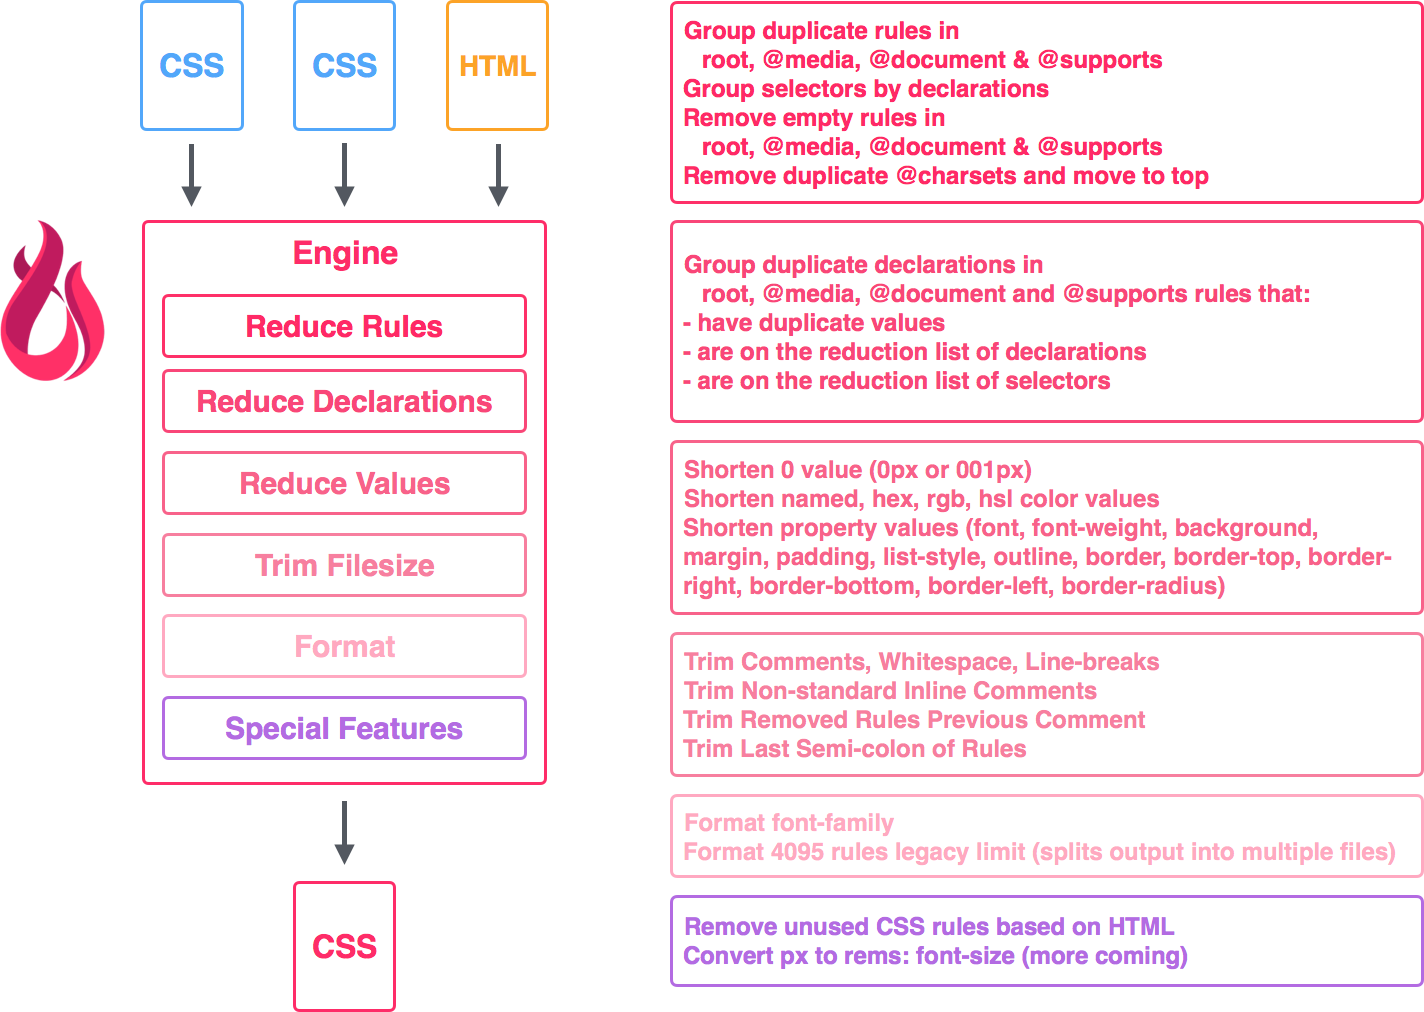
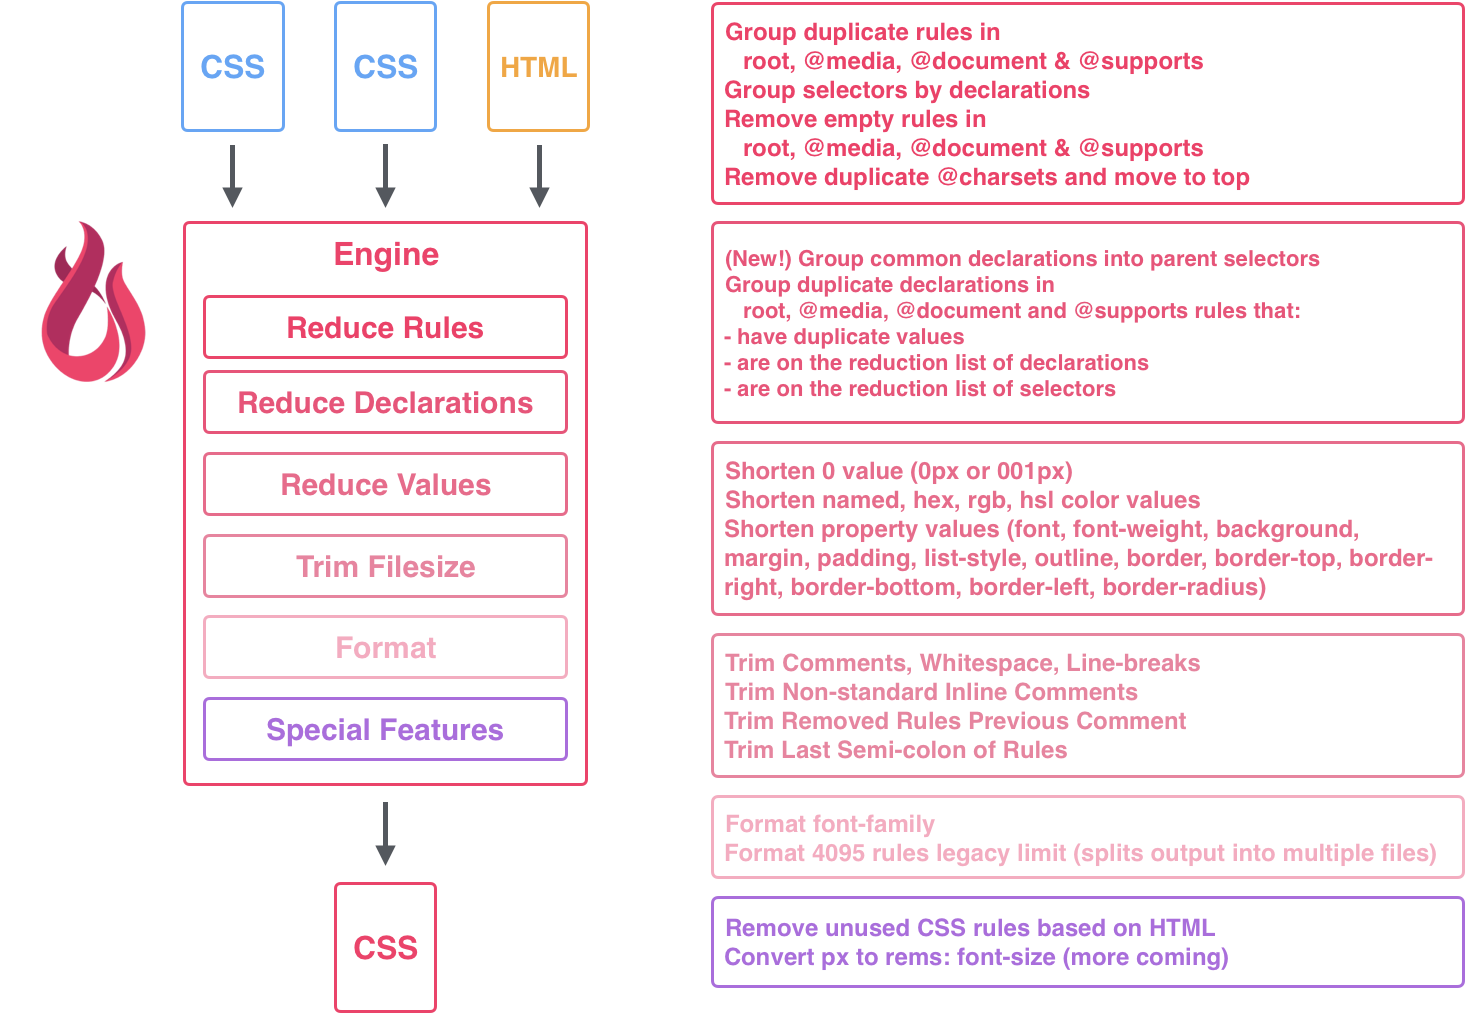
NEW Feature
- Groups common declarations which share the same parent into a parent selector

diff --git a/lib/css-purge.js b/lib/css-purge.js
@@ -42,6 +42,8 @@ function CSSPurge() {
 
 			"css": ["demo/test1.css"],
 			
+			"new_reduce_common_into_parent": true,
+
 			"trim": true,
 	    "trim_keep_non_standard_inline_comments": false,
 	    "trim_removed_rules_previous_comment": false,
@@ -105,6 +107,8 @@ function CSSPurge() {
 		css: CONFIG.options.css,
 		html: CONFIG.options.html,
 		js: CONFIG.options.js,
+
+		new_reduce_common_into_parent: CONFIG.options.new_reduce_common_into_parent,
 
 		trim: CONFIG.options.trim,
 		trim_keep_non_standard_inline_comments: CONFIG.options.trim_keep_non_standard_inline_comments,
@@ -177,6 +181,7 @@ function CSSPurge() {
 			"input_js": []
 		},
 		"options_used" : {
+			"new_reduce_common_into_parent" : OPTIONS.new_reduce_common_into_parent,
 			"trim" : OPTIONS.trim,
 			"trim_comments" : OPTIONS.trim_comments,
 			"trim_keep_non_standard_inline_comments" : OPTIONS.trim_keep_non_standard_inline_comments,
@@ -4864,6 +4869,265 @@ function CSSPurge() {
 		if (rules !== undefined) {
 
 			rCount = rules.length;
+
+			//reduce common declarations amongst children into parent
+			if (OPTIONS.new_reduce_common_into_parent) {
+
+
+				var directParents = [];
+				var hierachy = [];
+				var hierachyKeys = [];
+				var hierachyLen = 0;
+				var selectedHierachyLevel = 0;
+				var commonParentsIdx = -1;
+				var commonParentsKeys = [];
+				var commonParents = [];
+				var commonParentsLen = 0;
+				var commonParent = '';
+				var commonParent2 = '';
+				var commonParentTotal = 0;
+				var commonParentDeclarations = [];
+				var commonLineage = '';
+				var newParentDeclarations = [];
+				var processedCommonParentsChildren = [];
+				var classLineage = '';
+				var parentClassLineage = '';
+				var lineageLabel = '';
+				var tmpDeclarations = [];
+
+				for (i = 0; i < rCount; ++i) {
+
+					///rules
+					//group classes - create hierarchy
+					if (rules[i].selectors !== undefined) {
+						for (j = 0; j < rules[i].selectors.length; j++) { //each comma delimited
+							
+							if (rules[i].selectors[j].indexOf('.') != -1) {
+
+								classLineage = rules[i].selectors[j].split(' ');
+								parentClassLineage = classLineage.slice(0); //clone
+								parentClassLineage.pop();
+								parentClassLineage = parentClassLineage.join(' ');
+
+								if (parentClassLineage !== undefined && parentClassLineage != '') {
+
+									if (directParents[parentClassLineage] !== undefined) {
+										directParents[parentClassLineage].push({
+											selector: rules[i].selectors[j],
+											index: i
+										});
+									} else {
+										directParents[parentClassLineage] = [{
+											selector: rules[i].selectors[j],
+											index: i
+										}];	
+									}
+									
+								}
+
+
+								for (k = 0; k < classLineage.length; k++) { //depth of hierachy
+
+									if (k > 0) {
+										lineageLabel = '';
+
+										for (l = k; l > 0; l--) {
+											lineageLabel += classLineage[k-l] + ' ';	
+										}
+										lineageLabel += classLineage[k];	
+
+										if (hierachy[lineageLabel] === undefined) {
+											hierachy[lineageLabel] = 0;
+										}
+
+										hierachy[lineageLabel] += 1;
+
+									} else {
+
+										if (hierachy[classLineage[k]] === undefined) {
+											hierachy[classLineage[k]] = 0;
+										}
+
+										hierachy[classLineage[k]] += 1;
+									}
+								} //end of for
+							} //end of if
+						} //end of for
+					}
+				}
+
+				function sortHierachy(obj) {
+					var keys = Object.keys(obj);
+					keys.sort(function(a,b){return b.length-a.length})
+					hierachy = [];
+					for (i = 0; i < keys.length; i++) {
+
+						hierachy[keys[i]] = obj[keys[i]];
+
+
+						Object.keys(directParents).forEach(function(key, index, val) {
+						  
+						  if (this[key].length > 1) {
+							  for (j = 0; j < this[key].length; j++) {
+
+							  	if (keys[i] == this[key][j].selector) {
+
+								  	if (OPTIONS.verbose) { console.log(success('Process - Rules - Group Common Parent Rule : ' + keys[i] ));}
+								  	commonParentsKeys.push({
+								  		selector: key,
+								  		index: this[key][j].index,
+								  		childSelector: keys[i]
+								  	});
+								  }
+							  }
+							}
+
+						}, directParents);
+					}
+					return hierachy;
+				}
+				sortHierachy(hierachy);
+				hierachyKeys = Object.keys(hierachy);
+				hierachyLen = hierachyKeys.length;
+				selectedHierachyLevel = 0;
+				commonParentsLen = commonParentsKeys.length;
+
+				// get declarations
+				for (i = 0; i < commonParentsKeys.length; i++) {
+
+					if (rules[commonParentsKeys[i].index].declarations !== undefined) {
+
+						for (j = 0; j < rules[commonParentsKeys[i].index].declarations.length; j++) {
+
+							if (commonParentDeclarations[rules[commonParentsKeys[i].index].declarations[j].property + '_' + rules[commonParentsKeys[i].index].declarations[j].value] !== undefined) {
+
+								commonParentDeclarations[rules[commonParentsKeys[i].index].declarations[j].property + '_' + rules[commonParentsKeys[i].index].declarations[j].value].count += 1;
+
+							} else {
+								commonParentDeclarations[rules[commonParentsKeys[i].index].declarations[j].property + '_' + rules[commonParentsKeys[i].index].declarations[j].value] = {
+
+									property: rules[commonParentsKeys[i].index].declarations[j].property,
+									value: rules[commonParentsKeys[i].index].declarations[j].value,
+									count: 1,
+									selector: rules[commonParentsKeys[i].index].selectors,
+									selectorIndex: commonParentsKeys[i].index,
+									commonParent: commonParentsKeys[i].selector
+								};
+							}
+						}
+
+					}
+
+				}
+
+				Object.keys(commonParentDeclarations).forEach(function(val, index, key) {
+
+					if (this[val].count == directParents[this[val].commonParent].length) {
+
+						if (newParentDeclarations[this[val].commonParent] !== undefined) {
+							newParentDeclarations[this[val].commonParent].declarations.push({
+								type: 'declaration',
+								property: this[val].property,
+								value: this[val].value
+							});
+						} else {
+							newParentDeclarations[this[val].commonParent] = {
+								declarations: [{
+									type: 'declaration',
+									property: this[val].property,
+									value: this[val].value
+								}],
+								selectorIndex: this[val].selectorIndex
+							};
+						}
+
+						commonParents.push(this[val].commonParent);
+					}
+
+				}, commonParentDeclarations);
+
+
+				commonParentsLen = commonParentsKeys.length;
+
+				for (i = 0; i < commonParentsLen; i++) {
+
+					Object.keys(newParentDeclarations).forEach(function(key, index) {
+
+						if (commonParentsKeys[i] !== undefined && commonParentsKeys[i].selector == key) {
+
+						  if (rules[commonParentsKeys[i].index] !== undefined && rules[commonParentsKeys[i].index].declarations !== undefined) {
+						  	
+						  	//clone declarations
+						  	tmpDeclarations = rules[commonParentsKeys[i].index].declarations.slice(0); //clone
+						  	dCount = tmpDeclarations.length;
+							  
+						  	for (j = 0; j < this[key].declarations.length; j++) { //each parent declaration
+
+							  	//remove declarations
+							  	for (k = 0; k < dCount; k++) { //each child declaration
+
+							  		if (
+							  			this[key].declarations[j] !== undefined
+							  			&& this[key].declarations[j].type == 'declaration'
+							  			&& this[key].declarations[j].property == tmpDeclarations[k].property
+							  			&& this[key].declarations[j].value == tmpDeclarations[k].value
+							  		) {
+							  			tmpDeclarations.splice(k, 1); 
+							  			k -= 1;
+							  			dCount-=1;
+							  		}
+							  	} //end of k loop
+
+							  } //end of j loop
+							  
+							  if (tmpDeclarations.length == 0) {
+
+							  	//remove whole rule
+							  	rules.splice(commonParentsKeys[i].index, 1);
+							  	i-=1;
+							  	commonParentsLen-=1;
+
+							  } else {
+							  	//update declarations
+							  	rules[commonParentsKeys[i].index].declarations = tmpDeclarations;
+							  }
+								  	
+						  }
+						}
+					  
+					}, newParentDeclarations);
+				} //end of i loop
+
+				//Create Common Parents
+				Object.keys(newParentDeclarations).forEach(function(key, index) {
+				  
+				  rules.splice(this[key].selectorIndex-1, 0, {
+						type : 'rule',
+						selectors: [key],
+						declarations: this[key].declarations
+					});
+
+				}, newParentDeclarations);
+
+				//some cleanup
+				directParents = [];
+				hierachy = [];
+				hierachyKeys = [];
+				commonParentsKeys = [];
+				commonParents = [];
+				commonParentDeclarations = [];
+				newParentDeclarations = [];
+				processedCommonParentsChildren = [];
+				tmpDeclarations = [];
+				
+				//reset rules count
+				rCount = rules.length;
+
+			} //end of reduce common declarations amongst children into parent
+
+
+
+
 
 			for (i = 0; i < rCount; ++i) {
 

diff --git a/demo/test16.css b/demo/test16.css
@@ -1,0 +1,42 @@
+.class-1 {
+	color: purple;
+}
+
+.class-1 .class-1-1 {
+  padding-top: 10px;
+  padding-bottom: 10px;
+  padding-right: 10px;
+}
+
+.class-1 .class-1-2 {
+  padding-top: 10px;
+  padding-bottom: 10px;
+}
+
+.class-1 .class-1-2 {
+  padding-top: 10px;
+  padding-bottom: 10px;
+  padding-left: 10px;
+  padding-right: 10px;
+}
+
+.class-1 .class-1-3 {
+  padding-top: 10px;
+  padding-bottom: 10px;
+  padding-right: 10px;
+}
+
+.class-1 .class-1-1 .class-2-1 .class-3-1 {
+  color: red;
+  background-color: red;
+}
+
+.class-1 .class-1-1 .class-2-1 .class-3-2 {
+  color: red;
+  background-color: green;
+}
+
+.class-1 .class-1-1 .class-2-1 .class-3-3 {
+  color: red;
+  background-color: blue;
+}

diff --git a/index.html b/index.html
@@ -175,6 +175,8 @@
 
 						<h5>2. Reduce Declarations</h5>
 
+						<p>(New!) Group common declarations into parent selectors.</p>
+
             <p>
             	Group duplicate declarations in root, @media, @document and @supports rules that:
             </p>
@@ -611,6 +613,8 @@ node css-purge -i "main.css, framework.css" -o main.min.css -m "index.html, http
     "css": "demo/html/static-jekyll/_siteassets/main.css",
     
     "html": "demo/html/static-jekyll/_site",
+    
+    "new_reduce_common_into_parent": true,
     
     "trim": true,
     "trim_keep_non_standard_inline_comments": false,
